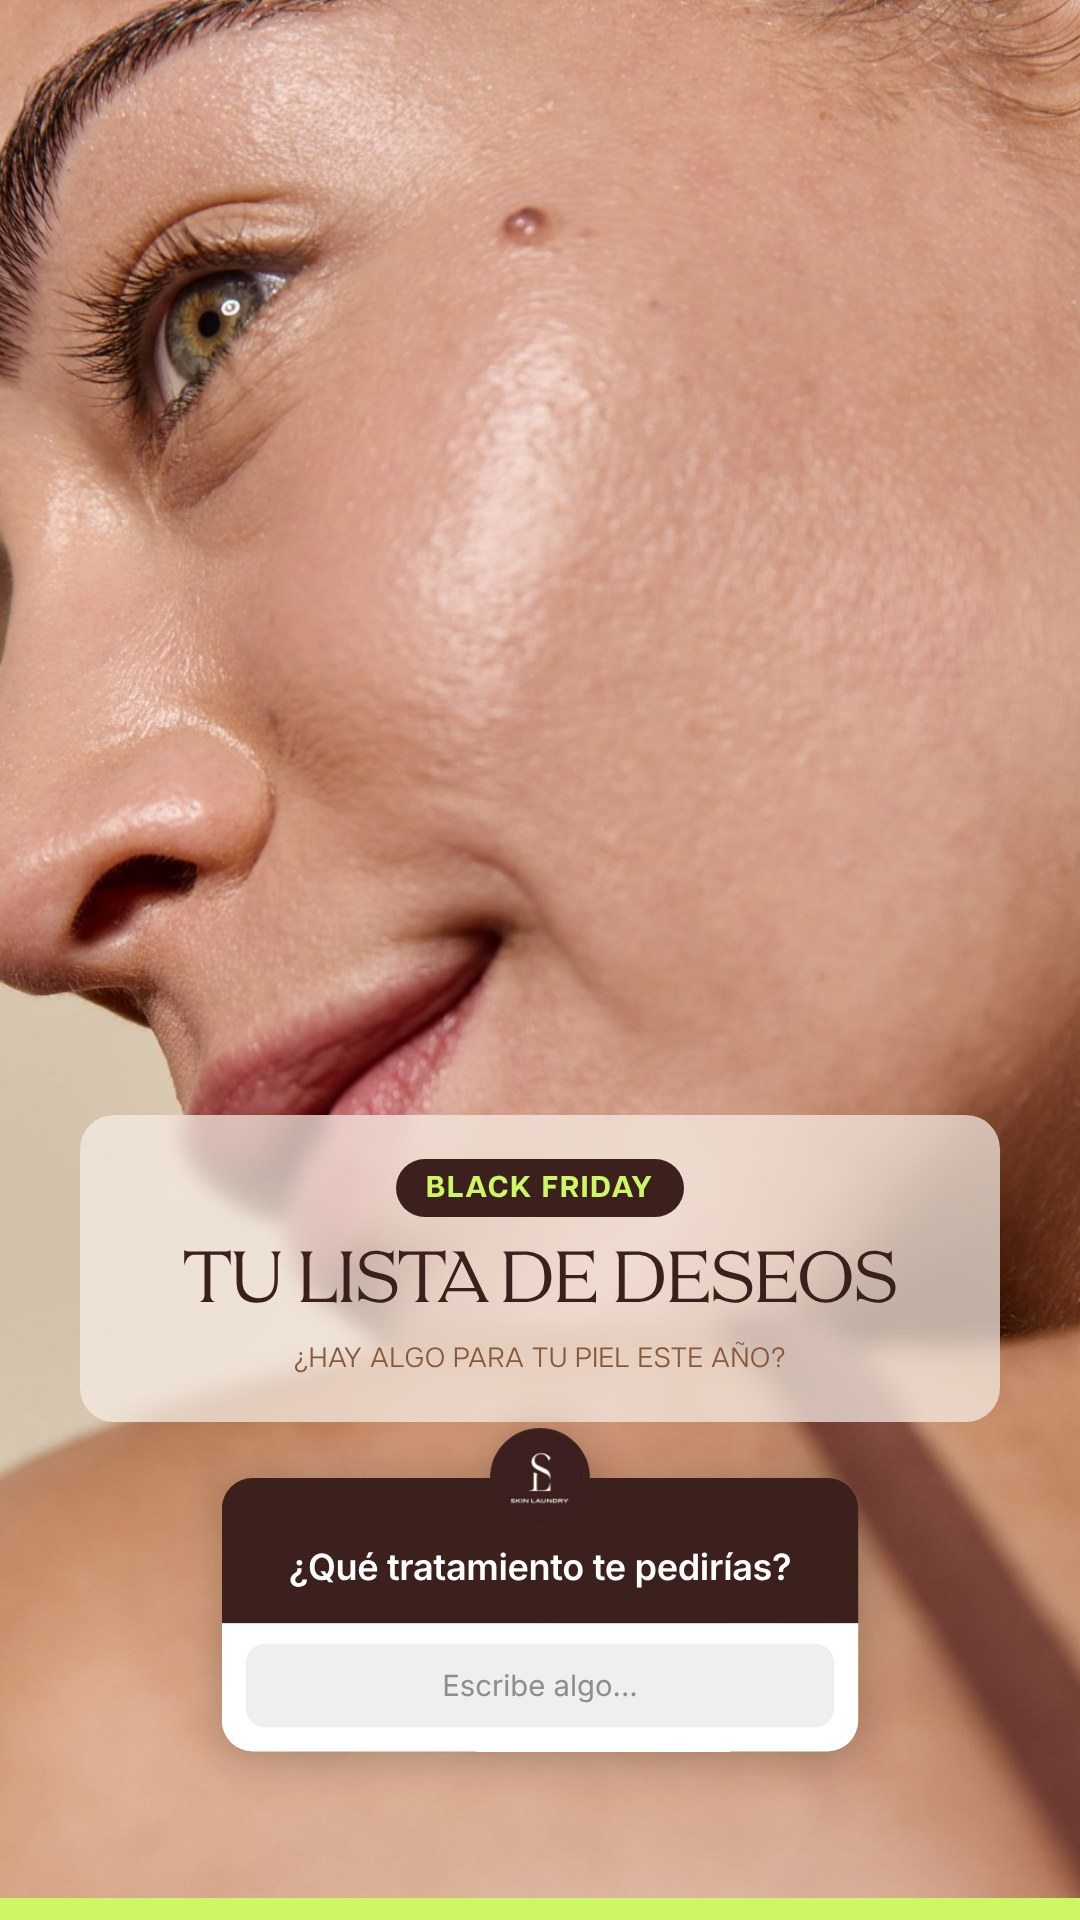
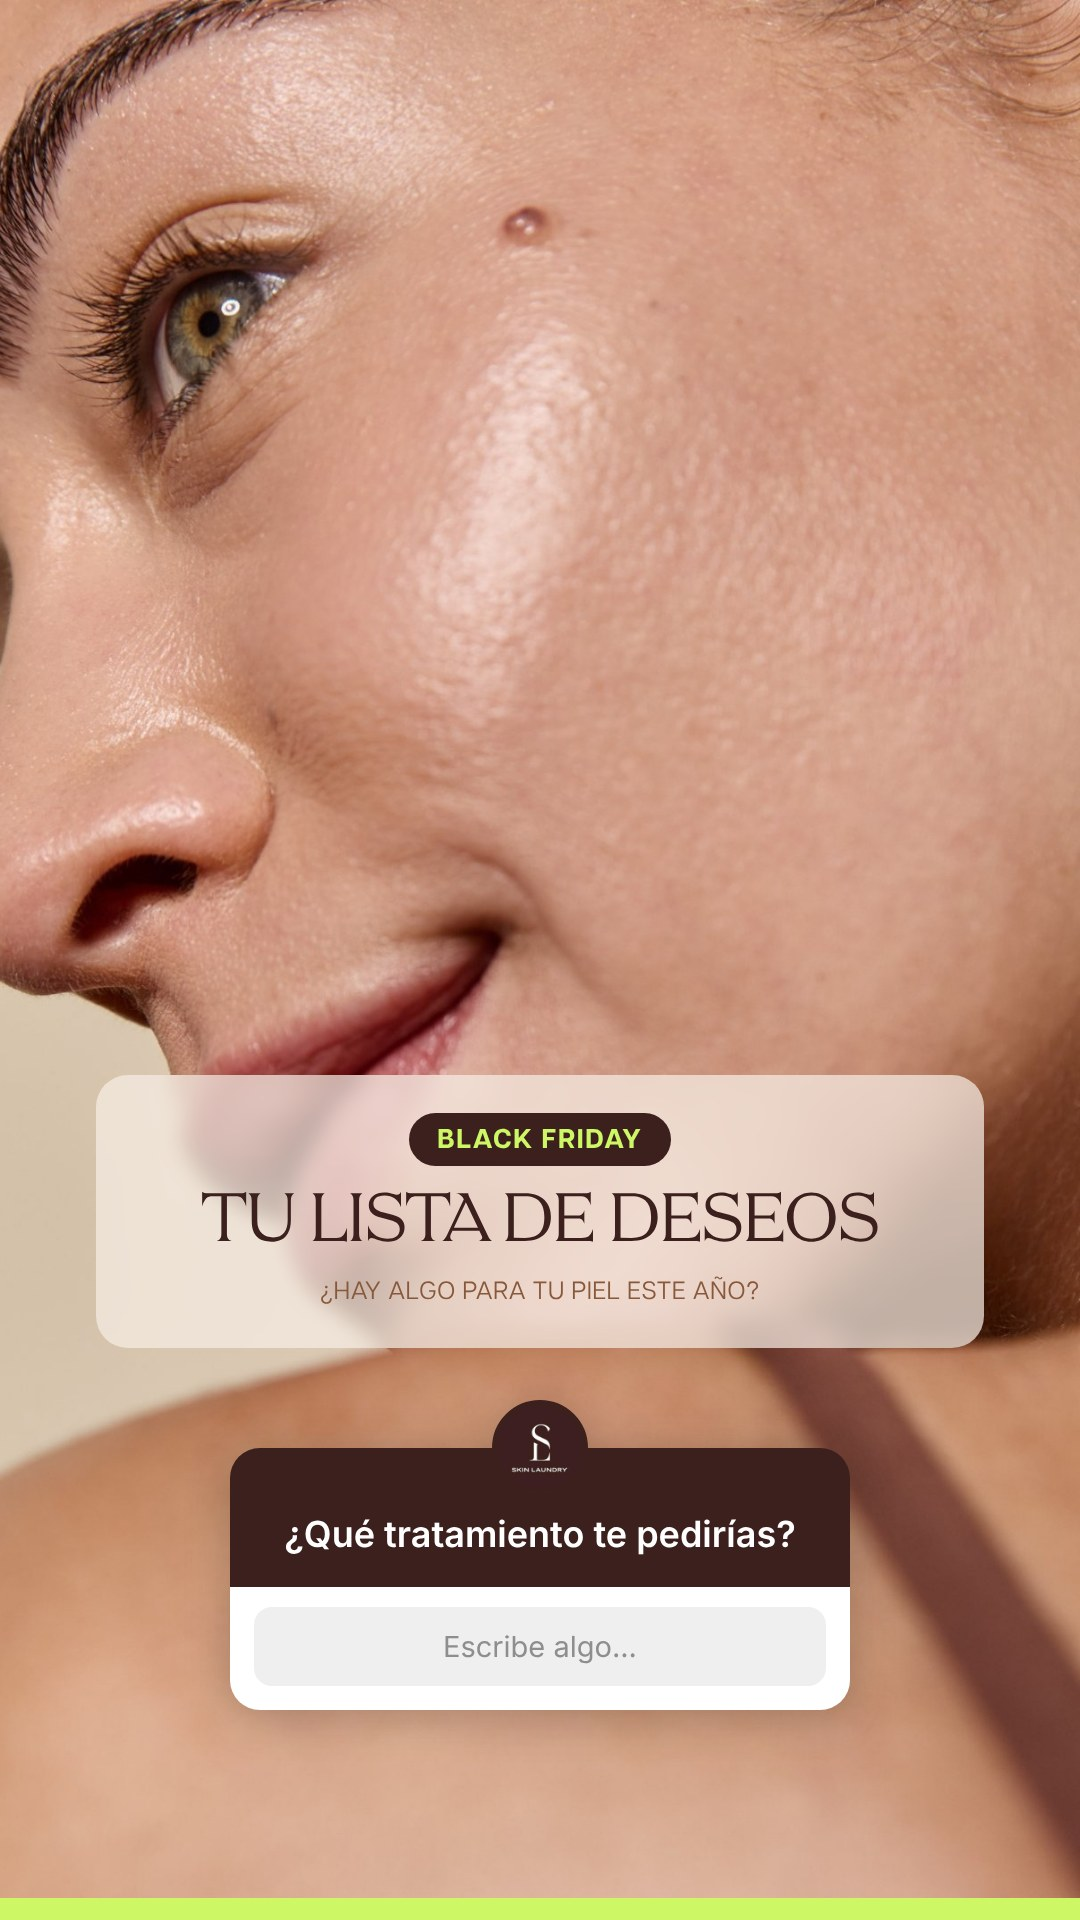
Lunes 16: teaser con más aire y el mismo espaciado en las tres stories
Claude-Session: https://claude.ai/code/session_01JZ4qrB4vBJCM1LriYw1bZU

Changed region(s): [[0.0611, 0.5625, 0.9472, 0.9375]]

diff --git a/public/pitch/skin-laundry-calendario/noviembre/index.html b/public/pitch/skin-laundry-calendario/noviembre/index.html
@@ -886,7 +886,7 @@ const MOSTRAR_STORIES = false;
 const STORIES = {
   /* Pedidas por el cliente el mismo día: teaser del Black Friday (sin enseñar la oferta, que se desvela el 18) */
   16: { titulo:"Teaser Black Friday", hora:"Hoy", estado:"listo",
-        imgs:["/pitch/skin-laundry-calendario/noviembre/img/s16_1.jpg?v=11161302","/pitch/skin-laundry-calendario/noviembre/img/s16_2.jpg?v=11161315","/pitch/skin-laundry-calendario/noviembre/img/s16_3.jpg?v=11161315"],
+        imgs:["/pitch/skin-laundry-calendario/noviembre/img/s16_1.jpg?v=11161325","/pitch/skin-laundry-calendario/noviembre/img/s16_2.jpg?v=11161325","/pitch/skin-laundry-calendario/noviembre/img/s16_3.jpg?v=11161325"],
         items:["Algo bueno está por llegar · lo contamos el miércoles · deslizador de emoji: ¿cuántas ganas tienes? 😍","Tu lista de deseos: ¿hay algo para tu piel este año? · caja de preguntas: ¿qué tratamiento te pedirías?","Cuenta atrás · sticker de cuenta atrás hasta el miércoles 18 a las 19:30 (sale el post) · activa el recordatorio"] },
   /* Pack que iba a salir el miércoles 11 y no se publicó: pasa al viernes 13 */
   13: { titulo:"Pack de stories", hora:"12:00h", estado:"listo",
